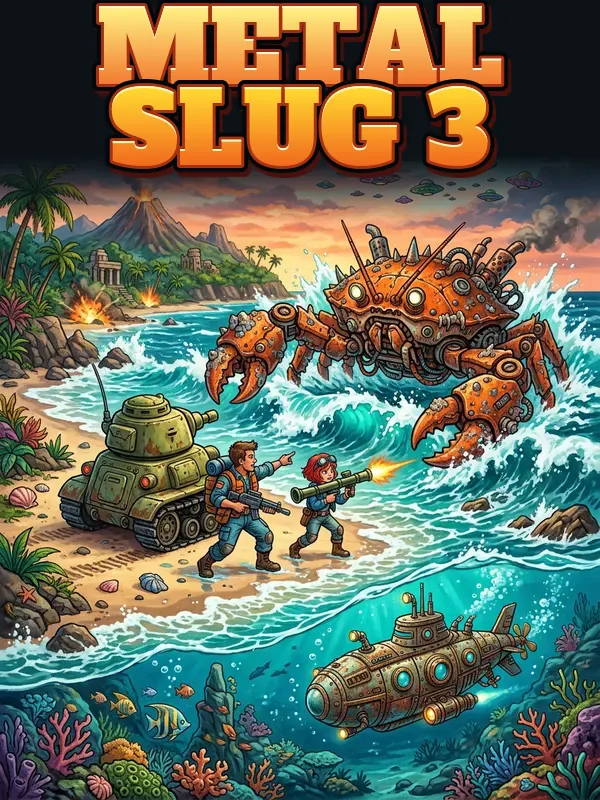
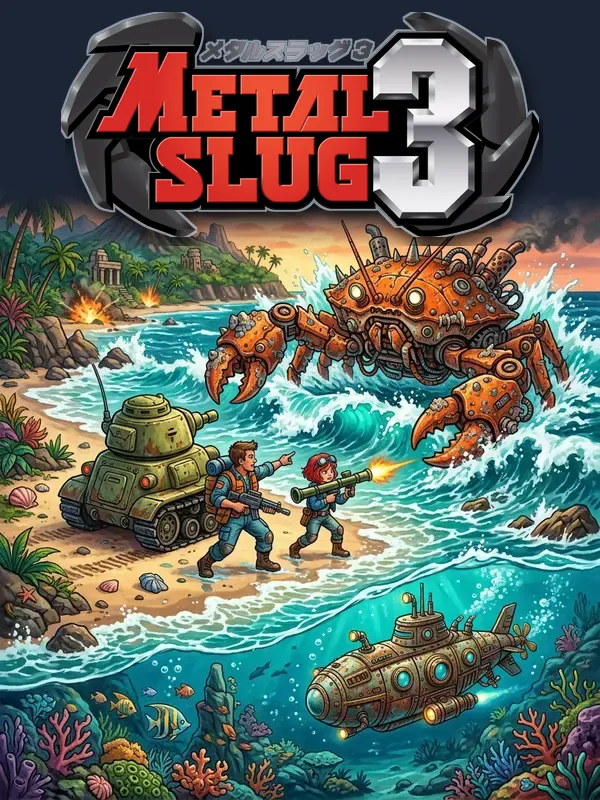
jeux : intégrer les logotypes originaux de chaque titre

Changed region(s): [[0.0, 0.0, 1.0, 0.3125]]

diff --git a/game/README.md b/game/README.md
@@ -93,12 +93,22 @@ référencent les mêmes URL, tailles et empreintes SHA-256. Une validation de
 conversion et les contrôles Android ne remplacent pas un essai sur appareil.
 
 Les sept jeux du catalogue disposent chacun d'une affiche originale détaillée,
-portrait 3:4, dans `bannieres/`. Les titres ne sont plus composés avec une police
-sans-serif générique : Metal Slug reprend un lettrage arcade à empattements,
-doré et en relief, inspiré de ses logotypes ; Neo Bomberman emploie un lettrage
-BD orange, une inscription « NEO » métallisée et un motif de bombe. Ces titres
-sont des créations originales composées avec les polices libres Alfa Slab One,
-Bangers et Bungee (SIL Open Font License), sans réutiliser les logos officiels.
+portrait 3:4, dans `bannieres/`. Les anciens lettrages uniformes ont été remplacés
+par le **logotype propre à chaque édition** : Metal Slug original (or), 2 (orange
+avec 2 violet), X (grand X métallique), 3 (3 chromé), 4 (métal sombre et 4
+rouge), 5 (blanc/rouge et cible), et Neo Bomberman (bombe et explosion).
+Les images de fond restent originales ; les logotypes sont des marques et visuels
+des ayants droit, utilisés selon les autorisations de diffusion déclarées par
+le responsable de MISSA TV. Références utilisées pour vérifier chaque titre :
+
+- [Metal Slug](https://es.wikipedia.org/wiki/Archivo:Metal_Slug_logo.png)
+- [Metal Slug 2](https://gamesdb.launchbox-app.com/games/images/77412-metal-slug-2)
+- [Metal Slug X](https://gamesdb.launchbox-app.com/games/details/82676-metal-slug-x)
+- [Metal Slug 3](https://www.pngkey.com/maxpic/u2w7r5i1u2r5i1q8/)
+- [Metal Slug 4](https://gamesdb.launchbox-app.com/games/images/31454-metal-slug-4)
+- [Metal Slug 5](https://gamesdb.launchbox-app.com/games/images/214-metal-slug-5)
+- [Neo Bomberman](https://fr.wikipedia.org/wiki/Neo_Bomberman)
+
 Les URL des affiches portent une version tirée de leur empreinte SHA-256 afin
 que le cache d'images de l'application récupère la nouvelle illustration après
 une mise à jour, sans télécharger à nouveau les ROMs.
